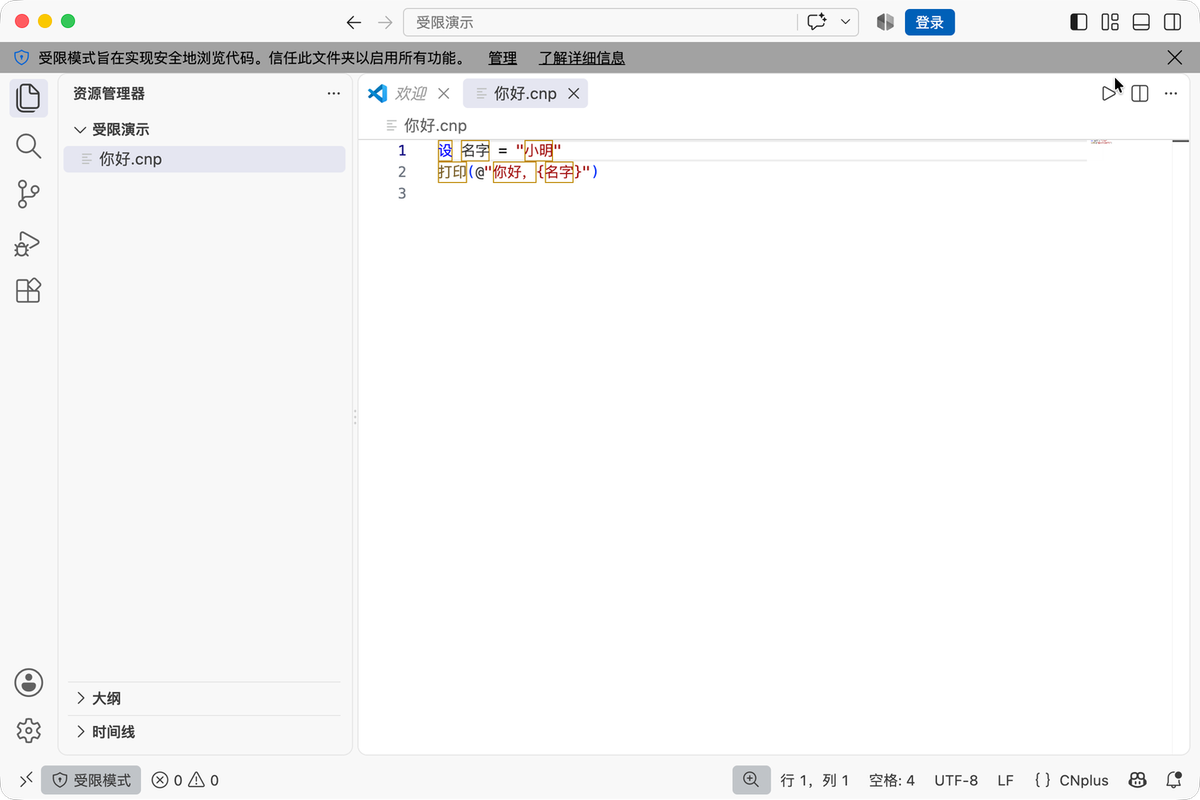
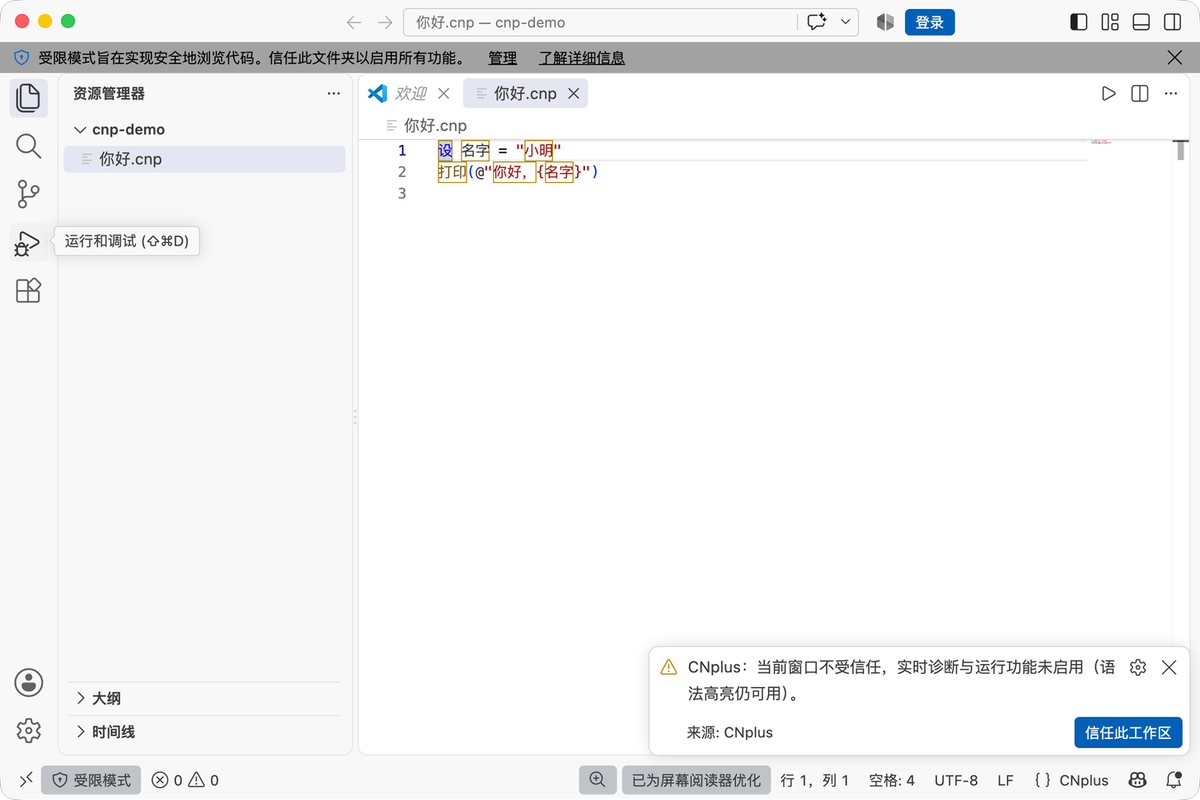
快速开始配图清理：删终端截图改用代码块，仅保留受限模式与代码高亮两张干净图

diff --git a/快速开始.md b/快速开始.md
@@ -17,8 +17,6 @@ python3 --version
 - 显示 `Python 3.11`、`3.12`、`3.13` → 直接往下走，后面命令里的 `python3` 原样用。
 - 显示 `Python 3.9` 或更老（macOS 自带的旧 Python）→ 需要先装个新的，见下面小字。
 
-![查看版本](https://cdn.jsdelivr.net/gh/CNplus/CNplus-wiki@main/images/quickstart/01-version.png)
-
 > **装新 Python 的办法（任选其一）：**
 > - 官网安装包：去 [python.org](https://www.python.org/downloads/) 下载 3.11 或更新的安装包，一路「继续」装完。
 > - Homebrew（程序员常用）：`brew install python@3.11`，装完后命令叫 `python3.11`。
@@ -36,13 +34,8 @@ cd CNplus-lang
 python3.11 -m pip install -e ".[lsp]"
 ```
 
-- 第二行会把 CNplus 下载到你桌面的 `CNplus-lang` 文件夹，看到一堆 `Receiving objects...` 就说明在下载：
-
-![下载 CNplus](https://cdn.jsdelivr.net/gh/CNplus/CNplus-wiki@main/images/quickstart/02-clone.png)
-
-- 第四行是安装，最后一行出现 **`Successfully installed cnplus-0.8.0`** 就装好了：
-
-![安装完成](https://cdn.jsdelivr.net/gh/CNplus/CNplus-wiki@main/images/quickstart/03-install.png)
+- 第二行把 CNplus 下载到桌面的 `CNplus-lang` 文件夹，跑完会显示 `Receiving objects` 之类的进度。
+- 第四行是安装，最后一行出现 **`Successfully installed cnplus-<版本>`** 就装好了。
 
 > 这一步把 CNplus 装进了 Python 3.11，VSCode 扩展会自动找到它。装完还会多出一个 `cnp` 命令，下一节就用它。
 
@@ -52,9 +45,7 @@ python3.11 -m pip install -e ".[lsp]"
 cnp 运行 示例/01-你好.cnp
 ```
 
-屏幕输出 `你好，世界！`，说明本体装好了：
-
-![跑通示例](https://cdn.jsdelivr.net/gh/CNplus/CNplus-wiki@main/images/quickstart/04-run.png)
+屏幕输出 `你好，世界！`，说明本体装好了。
 
 ## 第 3 步：装 VSCode 扩展
 
@@ -64,9 +55,7 @@ cnp 运行 示例/01-你好.cnp
 
 **3. 重启**：完全退出 VSCode 再打开（`⌘Q`，不是关窗口），扩展才会加载。
 
-装好后，扩展面板的「已安装」里能看到 CNplus：
-
-![扩展面板里的 CNplus](https://cdn.jsdelivr.net/gh/CNplus/CNplus-wiki@main/images/quickstart/05-extension.png)
+装好后，扩展面板的「已安装」列表里会出现一个 **CNplus**（中文编程语言支持：语法高亮、实时诊断、一键运行），就说明装对了。
 
 ## 第 4 步：信任工作区（重要，别跳过）
 
@@ -94,13 +83,15 @@ cnp 运行 示例/01-你好.cnp
 打印(@"你好，{名字}")
 ```
 
+代码会自动上色（语法高亮），右上角出现一个 ▶ 运行按钮：
+
+![编辑器里的 CNplus 代码：有语法高亮，右上角是 ▶ 按钮](https://cdn.jsdelivr.net/gh/CNplus/CNplus-wiki@main/images/quickstart/07-run.png)
+
 **4.** 按 **F5**（或点编辑器右上角的 ▶ 按钮）。下方「终端」会输出：
 
-```
+```text
 你好，小明
 ```
-
-![按 F5 运行，终端输出「你好，小明」](https://cdn.jsdelivr.net/gh/CNplus/CNplus-wiki@main/images/quickstart/07-run.png)
 
 看到这行字，你就已经会用 CNplus 写程序了。刚才那两行是「变量」和「格式串」，具体含义[教程第一章](教程/01-变量与类型.md)会讲。
 
